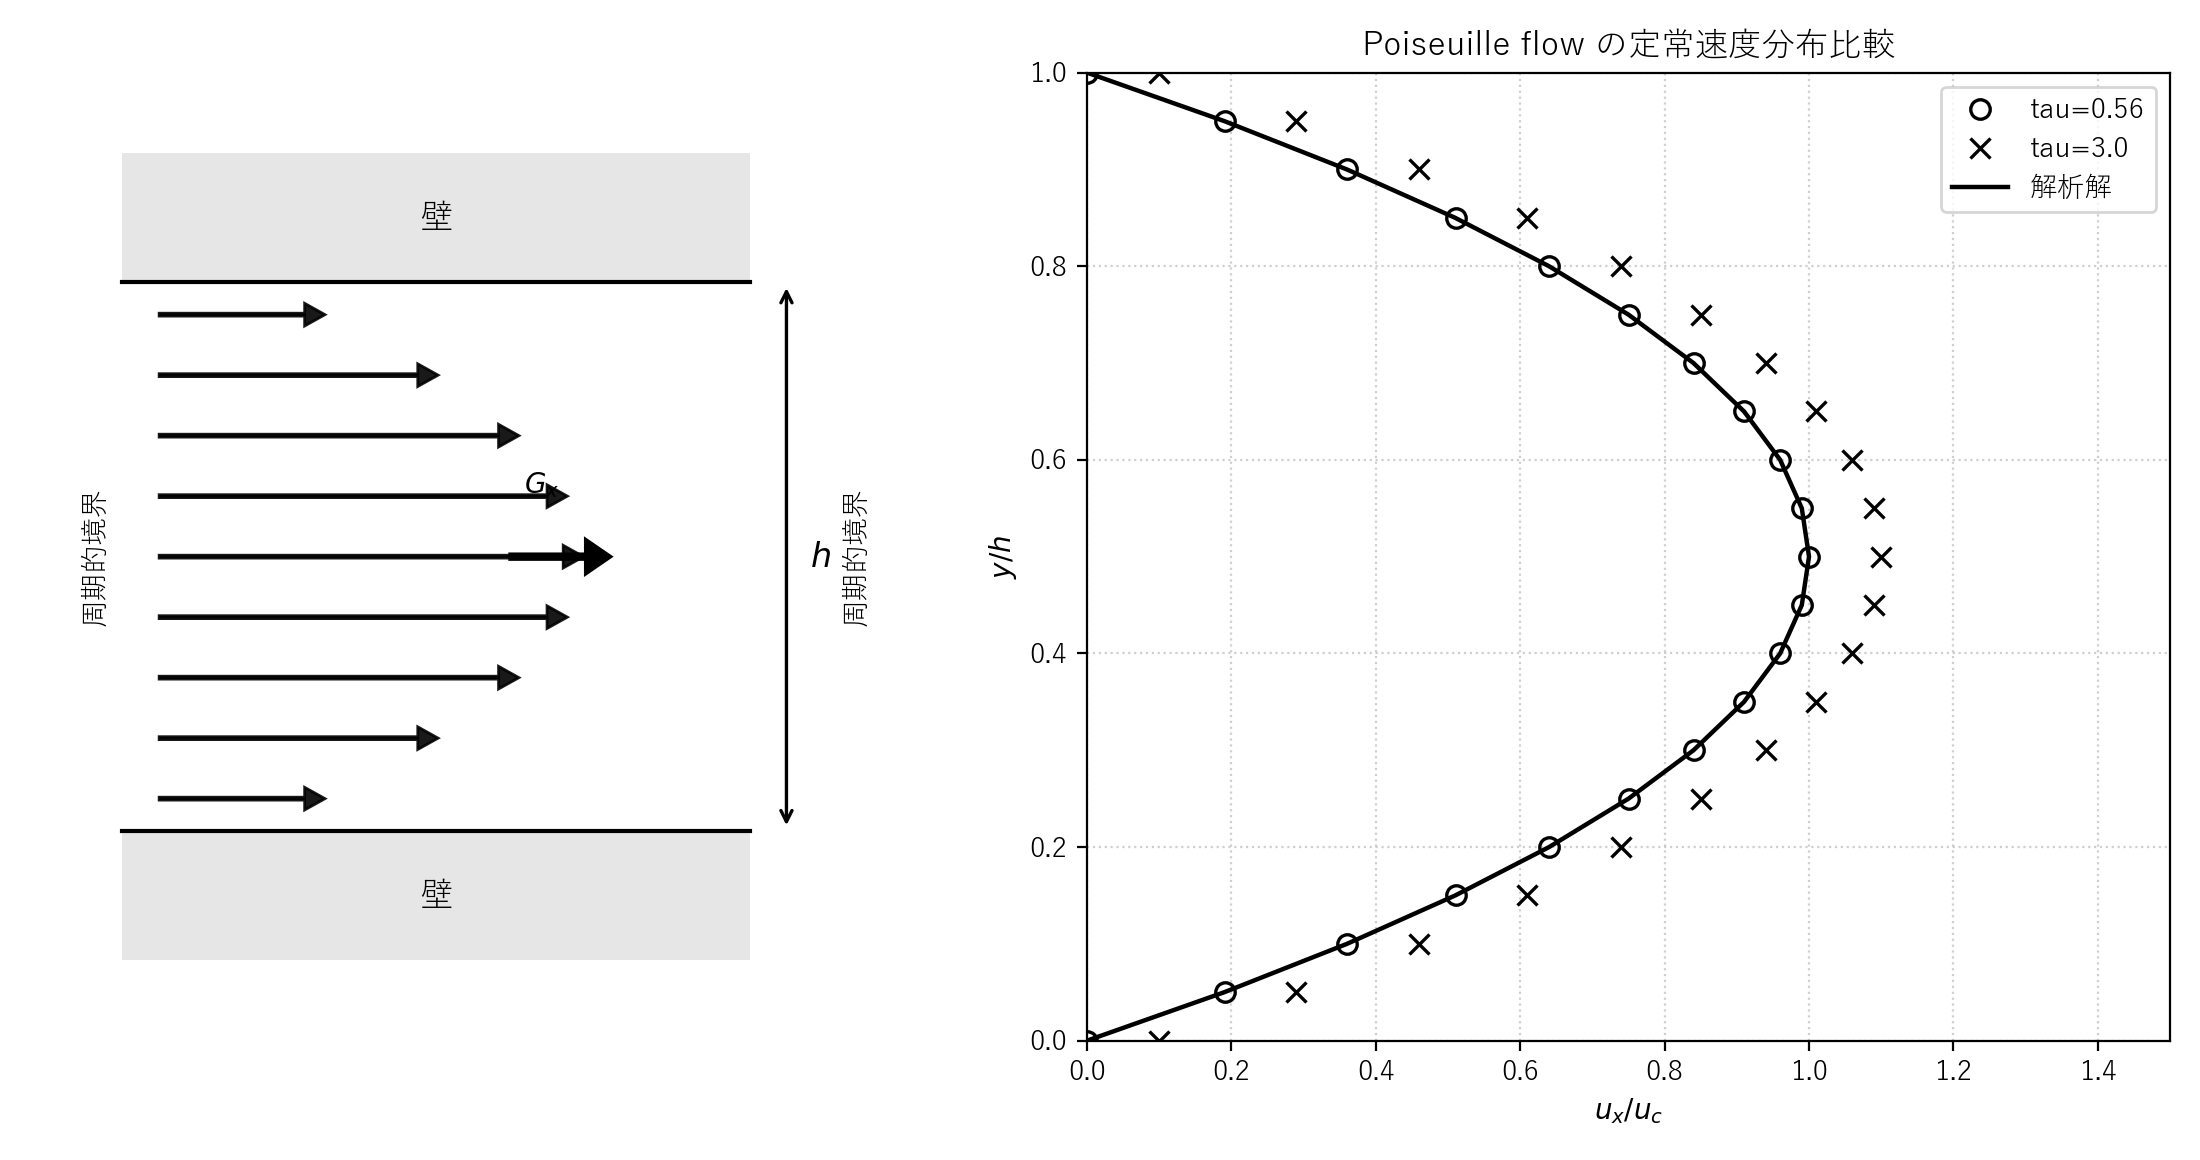
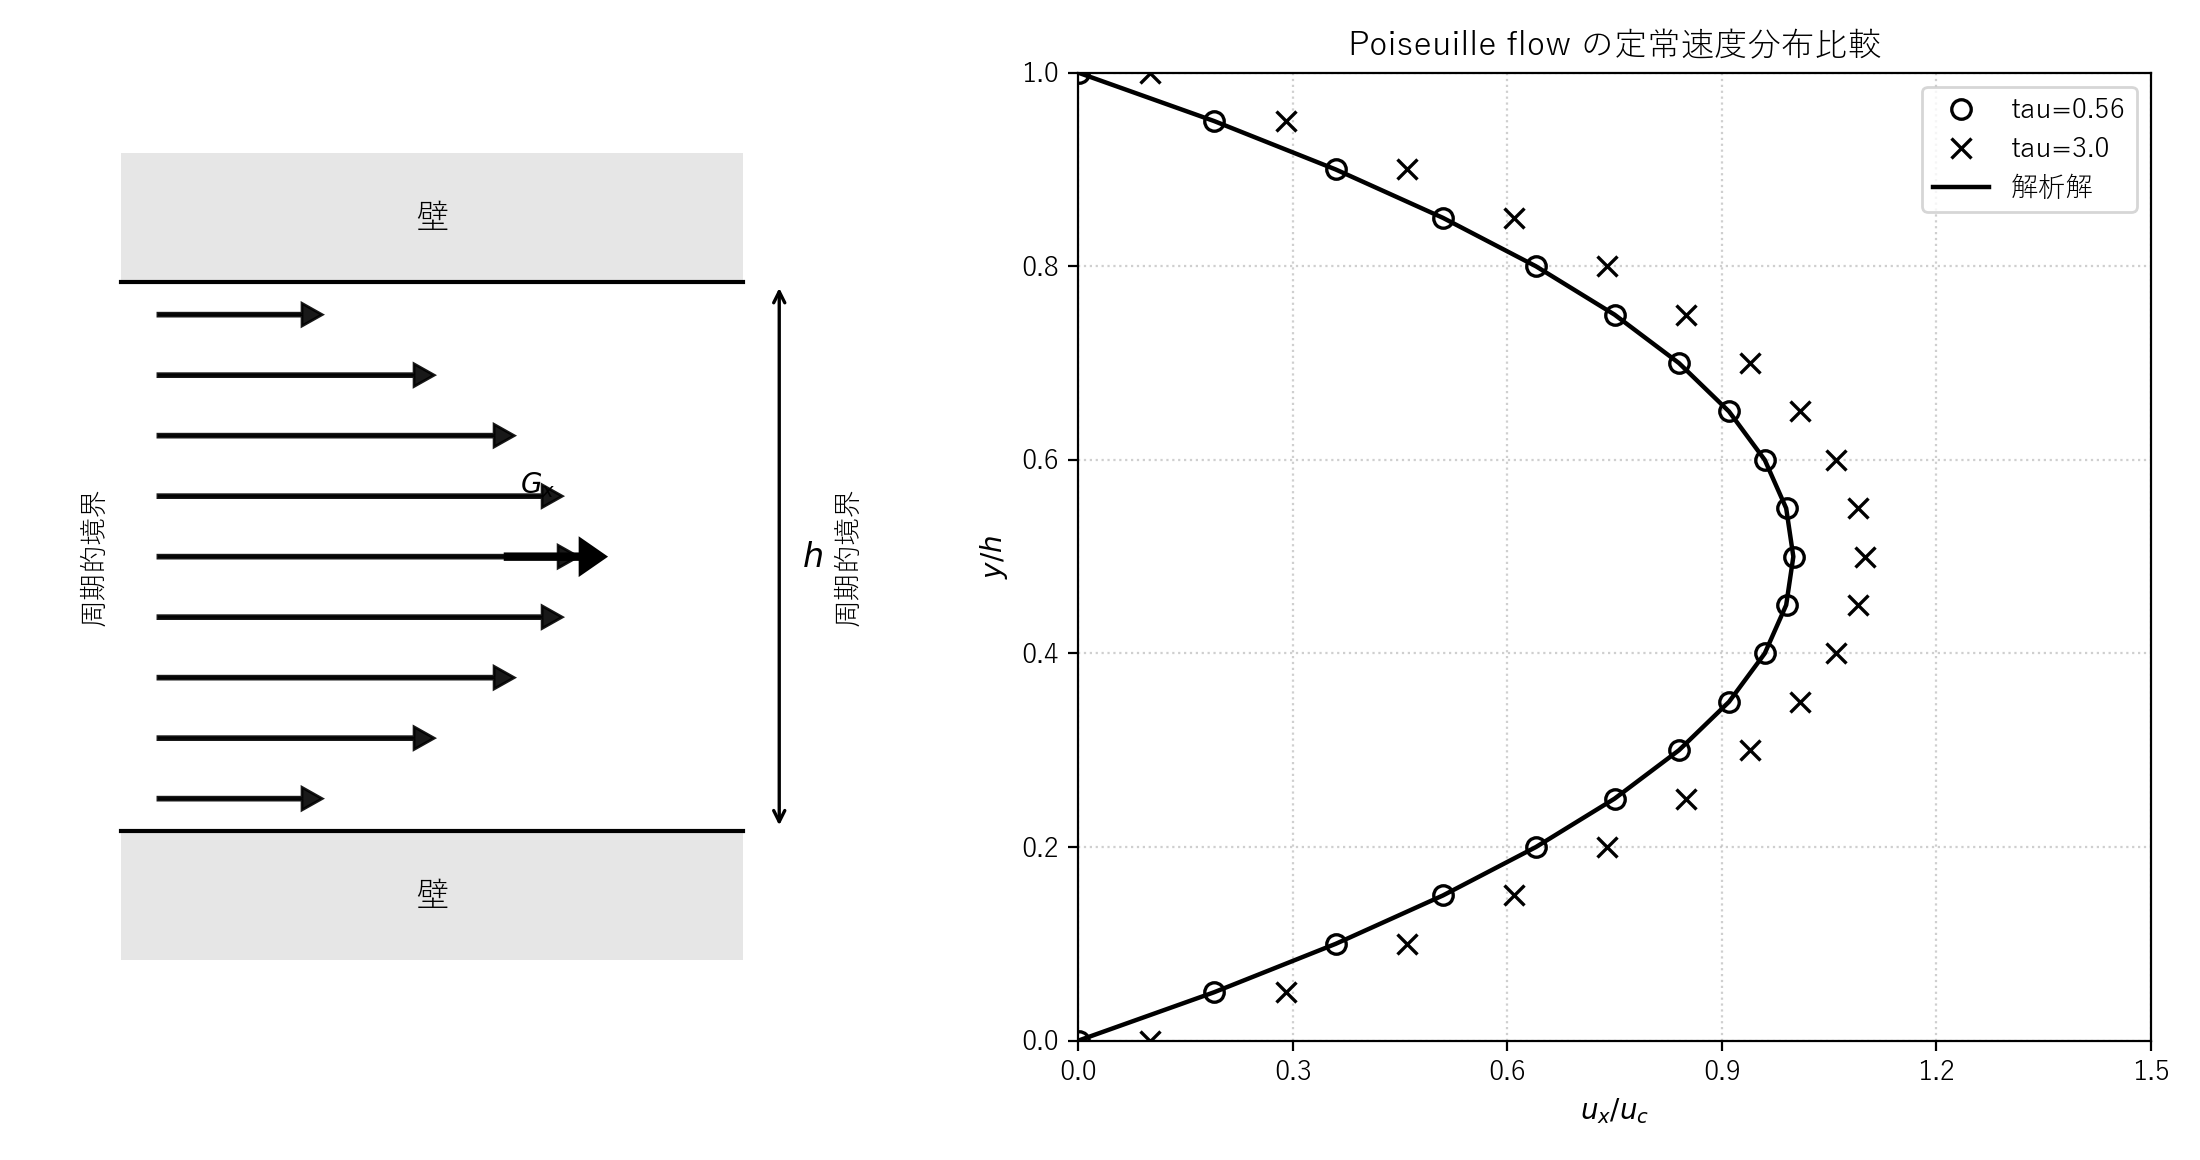
Add lbmpoi figure generation and analysis visuals

diff --git a/scripts/plot_non_equilibrium_distribution.py b/scripts/plot_non_equilibrium_distribution.py
@@ -1,0 +1,111 @@
+from __future__ import annotations
+
+from pathlib import Path
+
+import matplotlib.pyplot as plt
+from matplotlib.patches import Circle, FancyArrow, Rectangle
+
+
+ROOT_DIR = Path(__file__).resolve().parents[1]
+OUTPUT_DIR = ROOT_DIR / "outputs" / "sec2"
+PUBLISHED_ASSET_DIR = ROOT_DIR / "docs" / "assets" / "sec2"
+
+
+plt.rcParams["font.family"] = "sans-serif"
+plt.rcParams["font.sans-serif"] = [
+    "Yu Gothic",
+    "Meiryo",
+    "MS Gothic",
+    "Noto Sans CJK JP",
+    "DejaVu Sans",
+]
+plt.rcParams["axes.unicode_minus"] = False
+plt.rcParams["mathtext.fontset"] = "dejavusans"
+
+
+def add_arrow(axis: plt.Axes, start: tuple[float, float], delta: tuple[float, float], color: str, width: float = 0.035) -> None:
+    axis.add_patch(
+        FancyArrow(
+            start[0],
+            start[1],
+            delta[0],
+            delta[1],
+            width=width,
+            head_width=0.18,
+            head_length=0.22,
+            length_includes_head=True,
+            color=color,
+        )
+    )
+
+
+def draw_schematic(axis: plt.Axes) -> None:
+    axis.set_xlim(0.0, 10.0)
+    axis.set_ylim(0.0, 6.0)
+
+    wall = Rectangle((1.0, 4.55), 8.0, 0.9, facecolor="#e8e8e8", edgecolor="none")
+    axis.add_patch(wall)
+    axis.plot([1.0, 9.0], [4.55, 4.55], color="black", linewidth=1.6)
+    axis.text(5.0, 5.0, "壁面", ha="center", va="center", fontsize=15)
+
+    fluid_node = (5.0, 3.0)
+    wall_point = (5.0, 4.05)
+    axis.add_patch(Circle(fluid_node, radius=0.14, facecolor="white", edgecolor="black", linewidth=1.4))
+    axis.text(fluid_node[0], fluid_node[1] - 0.36, "流体節点", ha="center", va="top", fontsize=12)
+
+    axis.add_patch(Circle(wall_point, radius=0.07, facecolor="black", edgecolor="black"))
+    axis.text(wall_point[0] + 0.35, wall_point[1] + 0.02, "壁位置", ha="left", va="center", fontsize=12)
+    axis.plot([fluid_node[0], wall_point[0]], [fluid_node[1], wall_point[1]], color="0.45", linestyle="--", linewidth=1.1)
+
+    add_arrow(axis, (5.0, 3.25), (0.0, 0.95), "black")
+    add_arrow(axis, (4.85, 3.15), (-1.0, 0.95), "black")
+    add_arrow(axis, (5.15, 3.15), (1.0, 0.95), "black")
+    axis.text(5.18, 4.0, r"既知: $f_4$", ha="left", va="center", fontsize=12)
+    axis.text(3.55, 4.0, r"既知: $f_7$", ha="right", va="center", fontsize=12)
+    axis.text(6.45, 4.0, r"既知: $f_8$", ha="left", va="center", fontsize=12)
+
+    add_arrow(axis, (5.0, 4.15), (0.0, -0.95), "tab:blue")
+    add_arrow(axis, (3.95, 4.1), (0.95, -0.9), "tab:blue")
+    add_arrow(axis, (6.05, 4.1), (-0.95, -0.9), "tab:blue")
+    axis.text(5.22, 3.52, r"未知: $f_2$", ha="left", va="center", fontsize=12, color="tab:blue")
+    axis.text(4.15, 3.55, r"未知: $f_5$", ha="right", va="center", fontsize=12, color="tab:blue")
+    axis.text(5.85, 3.55, r"未知: $f_6$", ha="left", va="center", fontsize=12, color="tab:blue")
+
+    axis.text(1.3, 3.75, "Non-equilibrium\nbounce-back", ha="left", va="center", fontsize=15, weight="bold")
+    axis.text(1.3, 3.0, r"$f_i = f_i^{eq} + f_i^{neq}$", ha="left", va="center", fontsize=16)
+    axis.text(1.3, 2.45, r"$f_i^{neq}(x_w) = f_{\bar{i}}^{neq}(x_f)$", ha="left", va="center", fontsize=16, color="tab:blue")
+    axis.text(1.3, 1.8, r"$f_i = f_i^{eq}(\rho_w, \mathbf{u}_w)$", ha="left", va="center", fontsize=15)
+    axis.text(1.3, 1.35, r"$\qquad +\; f_{\bar{i}} - f_{\bar{i}}^{eq}(\rho_w, \mathbf{u}_w)$", ha="left", va="center", fontsize=15)
+
+    axis.annotate(
+        "反対方向の非平衡成分を\nそのまま未知分布へ写す",
+        xy=(7.0, 3.9),
+        xytext=(7.55, 2.25),
+        fontsize=12,
+        ha="left",
+        va="center",
+        arrowprops={"arrowstyle": "->", "lw": 1.2, "color": "0.25"},
+    )
+
+    axis.text(8.7, 3.0, r"$\bar{i}$: 反対方向", ha="right", va="center", fontsize=11, color="0.35")
+    axis.axis("off")
+
+
+def main() -> None:
+    OUTPUT_DIR.mkdir(parents=True, exist_ok=True)
+    PUBLISHED_ASSET_DIR.mkdir(parents=True, exist_ok=True)
+
+    figure, axis = plt.subplots(figsize=(10.8, 5.8))
+    draw_schematic(axis)
+    figure.tight_layout()
+
+    output_path = OUTPUT_DIR / "non_equilibrium_distribution.png"
+    published_path = PUBLISHED_ASSET_DIR / "non_equilibrium_distribution.png"
+    figure.savefig(output_path, dpi=220, bbox_inches="tight")
+    figure.savefig(published_path, dpi=220, bbox_inches="tight")
+    print(f"Saved plot to {output_path}")
+    print(f"Saved plot to {published_path}")
+
+
+if __name__ == "__main__":
+    main()

diff --git a/scripts/plot_lbmpoi_fneq5_tau_compare.py b/scripts/plot_lbmpoi_fneq5_tau_compare.py
@@ -1,0 +1,128 @@
+from __future__ import annotations
+
+import subprocess
+from pathlib import Path
+
+import matplotlib.pyplot as plt
+import numpy as np
+
+
+ROOT_DIR = Path(__file__).resolve().parents[1]
+BUILD_DIR = ROOT_DIR / "build" / "bin"
+OUTPUT_DIR = ROOT_DIR / "outputs" / "sec2"
+PUBLISHED_ASSET_DIR = ROOT_DIR / "docs" / "assets" / "sec2"
+
+NY = 20
+GX = 1.0e-5
+TAU_VALUES = [0.56, 3.0]
+
+
+plt.rcParams["font.family"] = "sans-serif"
+plt.rcParams["font.sans-serif"] = [
+    "Yu Gothic",
+    "Meiryo",
+    "MS Gothic",
+    "Noto Sans CJK JP",
+    "DejaVu Sans",
+]
+plt.rcParams["axes.unicode_minus"] = False
+
+
+def build_executable() -> Path:
+    source = ROOT_DIR / "src" / "sec2" / "lbmpoi.c"
+    subprocess.run(
+        ["cmd.exe", "/c", "scripts\\build_one.cmd", str(source.relative_to(ROOT_DIR))],
+        cwd=ROOT_DIR,
+        check=True,
+    )
+    return BUILD_DIR / "lbmpoi.exe"
+
+
+def run_case(executable: Path, tau: float) -> Path:
+    output_dir = OUTPUT_DIR / f"lbmpoi_tau_{str(tau).replace('.', '_')}"
+    output_dir.mkdir(parents=True, exist_ok=True)
+    with (output_dir / "run.log").open("w", encoding="utf-8") as log_file:
+        subprocess.run(
+            [str(executable), str(tau)],
+            cwd=output_dir,
+            check=True,
+            stdout=log_file,
+            stderr=subprocess.STDOUT,
+        )
+    return output_dir / "fneq5"
+
+
+def read_profile(file_path: Path) -> np.ndarray:
+    values: list[float] = []
+    with file_path.open("r", encoding="utf-8") as file:
+        for line in file:
+            stripped = line.strip()
+            if stripped:
+                values.append(float(stripped))
+    return np.array(values, dtype=float)
+
+
+def normalization_scale(tau: float) -> float:
+    return tau * GX * NY / (8.0 * (tau - 0.5))
+
+
+def theoretical_profile(y_over_h: np.ndarray) -> np.ndarray:
+    return 2.0 * y_over_h - 1.0
+
+
+def main() -> None:
+    executable = build_executable()
+    y_over_h = np.linspace(0.0, 1.0, NY + 1)
+    marker_map = {
+        0.56: "o",
+        3.0: "x",
+    }
+
+    figure, axis = plt.subplots(figsize=(6.3, 5.8))
+
+    for tau in TAU_VALUES:
+        file_path = run_case(executable, tau)
+        fneq5 = read_profile(file_path)
+        normalized = fneq5 / normalization_scale(tau)
+        axis.plot(
+            normalized,
+            y_over_h,
+            linestyle="None",
+            marker=marker_map[tau],
+            markersize=7,
+            markerfacecolor="none" if marker_map[tau] == "o" else None,
+            markeredgewidth=1.2,
+            color="black",
+            label=fr"tau={tau}",
+        )
+
+    axis.plot(
+        theoretical_profile(y_over_h),
+        y_over_h,
+        linestyle="-",
+        color="black",
+        linewidth=1.6,
+        label="理論値",
+    )
+
+    axis.set_xlim(-1.1, 1.1)
+    axis.set_ylim(0.0, 1.0)
+    axis.set_xlabel(r"$f_5^{neq}/f_{5,	au}^{neq}$")
+    axis.set_ylabel(r"$y/h$")
+    axis.set_title("非平衡分布関数の比較")
+    axis.grid(True, linestyle=":", alpha=0.6)
+    axis.legend(loc="best")
+
+    figure.tight_layout()
+    OUTPUT_DIR.mkdir(parents=True, exist_ok=True)
+    PUBLISHED_ASSET_DIR.mkdir(parents=True, exist_ok=True)
+    output_path = OUTPUT_DIR / "lbmpoi_fneq5_tau_compare.png"
+    published_path = PUBLISHED_ASSET_DIR / "lbmpoi_fneq5_tau_compare.png"
+    figure.savefig(output_path, dpi=220)
+    figure.savefig(published_path, dpi=220)
+    print(f"Saved plot to {output_path}")
+    print(f"Saved plot to {published_path}")
+
+
+if __name__ == "__main__":
+    main()

diff --git a/src/sec2/lbmpoi.c b/src/sec2/lbmpoi.c
@@ -189,6 +189,16 @@ int main(int argc, char *argv[])
     }
     fclose(fp);
 
+    fp = fopen("fneq5","w");
+    for(j = 0; j <= ny; j++){
+      u2 = u[nx/2][j]*u[nx/2][j] + v[nx/2][j]*v[nx/2][j];
+      tmp = cx[5]*u[nx/2][j] + cy[5]*v[nx/2][j];
+      fprintf(fp,"%10.8e\n",
+              f[5][nx/2][j]
+            - rho[nx/2][j]*(1.0 +3.0*tmp +9.0/2.0*tmp*tmp -3.0/2.0*u2)/36.0);
+    }
+    fclose(fp);
+
     exit(0);
   }
 

diff --git a/scripts/plot_lbmpoi_tau_compare.py b/scripts/plot_lbmpoi_tau_compare.py
@@ -170,6 +170,7 @@ def main() -> None:
     )
 
     profile_axis.set_xlim(0.0, 1.5)
+    profile_axis.set_xticks([0.0, 0.3, 0.6, 0.9, 1.2, 1.5])
     profile_axis.set_ylim(0.0, 1.0)
     profile_axis.set_xlabel(r"$u_x/u_c$")
     profile_axis.set_ylabel(r"$y/h$")

diff --git a/docs/sec2/lbmpoi.md b/docs/sec2/lbmpoi.md
@@ -261,9 +261,33 @@ $$
 
 また、出力ファイル [outputs/sec2/lbmpoi/data](../../outputs/sec2/lbmpoi/data) には、中心断面 $x=n_x/2$ の無次元速度分布が 21 点分保存されます。先頭と末尾の値が約 $4.48\times 10^{-4}$、中央が約 $1.00044$ であり、放物線分布に小さな slip が乗った形になっています。
 
+### 解析結果の解釈
+
+- この結果から、[src/sec2/lbmpoi.c](../../src/sec2/lbmpoi.c) は Poiseuille flow の基本的な放物線速度分布を正しく再現できていることが分かります。
+- 最大流速が解析解とよく一致していることは、体積力の与え方と巨視量の再構成が期待どおりに機能していることを示しています。
+- 一方で壁面では完全にゼロ速度にはならず、ごく小さな slip が残ります。これは halfway bounce-back に由来する離散化誤差であり、このコードではその大きさも理論式と整合しています。
+- したがって本プログラムは、Poiseuille flow に対する LBM の基本挙動を確認する教材として適しており、特に壁面境界条件の影響を定量的に観察できる点に特徴があります。
+
 ## tau による定常速度分布比較
 
 `tau = 0.56` と `tau = 3.0` の 2 条件で [src/sec2/lbmpoi.c](../../src/sec2/lbmpoi.c) を実行し、定常速度分布を解析解と比較した図を [docs/assets/sec2/lbmpoi_tau_compare.png](../assets/sec2/lbmpoi_tau_compare.png) に保存しています。図は左に模式図、右に計算結果を配置しており、模式図は教科書の図 2.7 に合わせて、上下壁、左右の周期的境界、体積力 $G_x$、放物線状の流速分布を示す形にしています。
+
+### 図の生成手順
+
+[docs/assets/sec2/lbmpoi_tau_compare.png](../assets/sec2/lbmpoi_tau_compare.png) は、リポジトリのルートで次を実行すると再生成できます。
+
+```powershell
+d:/work/LBMcode/.venv/Scripts/python.exe scripts/plot_lbmpoi_tau_compare.py
+```
+
+このスクリプトは内部で次を順に実行します。
+
+- `tau = 0.56` と `tau = 3.0` の 2 条件を設定する
+- 条件ごとに [src/sec2/lbmpoi.c](../../src/sec2/lbmpoi.c) をビルドして [build/bin/lbmpoi.exe](../../build/bin/lbmpoi.exe) を実行する
+- 生の出力を [outputs/sec2/lbmpoi_tau_0_56/data](../../outputs/sec2/lbmpoi_tau_0_56/data) と [outputs/sec2/lbmpoi_tau_3_0/data](../../outputs/sec2/lbmpoi_tau_3_0/data) に保存する
+- 左側の模式図と右側の速度分布比較図を合成して [docs/assets/sec2/lbmpoi_tau_compare.png](../assets/sec2/lbmpoi_tau_compare.png) に保存する
+
+図生成スクリプト全体の一覧は [docs/plot_generation.md](../plot_generation.md) にまとめています。
 
 - `tau = 0.56`: ○
 - `tau = 3.0`: ×
@@ -283,7 +307,7 @@ $$
 
 となるため、`tau` に依らず 1 本の曲線として表せます。図の表示範囲は横軸 `0.0` から `1.5`、縦軸 `0.0` から `1.0` に固定しています。
 
-<img src="../assets/sec2/lbmpoi_tau_compare.png" alt="lbmpoi tau comparison" width="50%">
+<img src="../assets/sec2/lbmpoi_tau_compare.png" alt="lbmpoi tau comparison" width="75%">
 
 この比較に用いた生の実行結果は [outputs/sec2/lbmpoi_tau_0_56/data](../../outputs/sec2/lbmpoi_tau_0_56/data) と [outputs/sec2/lbmpoi_tau_3_0/data](../../outputs/sec2/lbmpoi_tau_3_0/data) に保存されます。`tau = 3.0` の結果が解析解よりやや右側に出ているのは、緩和時間が大きい条件では壁面 slip の影響が強く、無次元化後も中心付近の速度が解析解より大きめに残るためです。追跡対象の図だけを `docs/assets/sec2` に置き、再生成可能な実行結果は `outputs/sec2` に分離しています。
 
